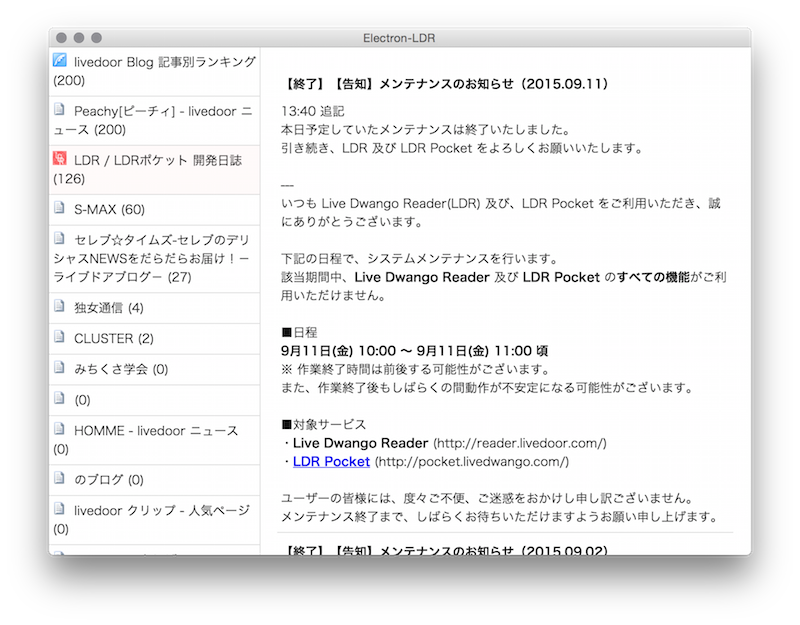
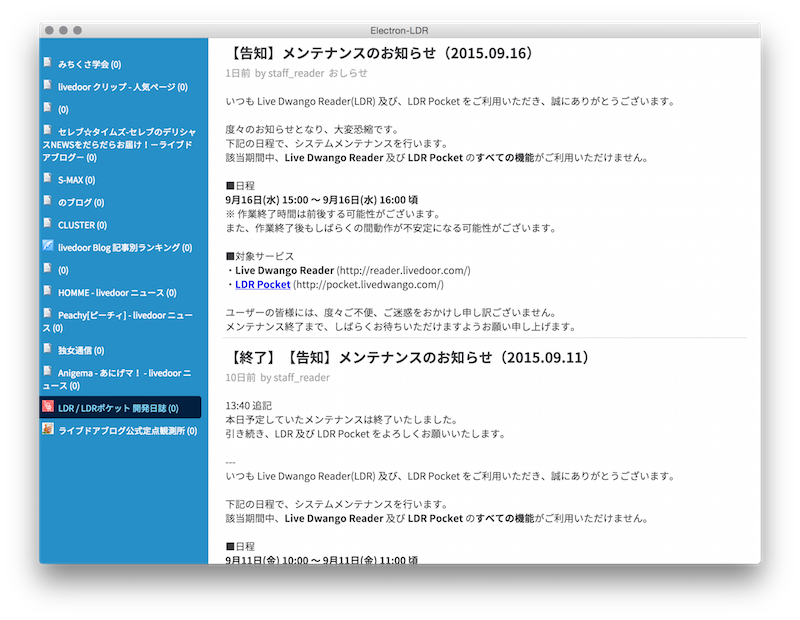
#2 フォントをNoto Sans Japaneseに変えた

diff --git a/app/style/style.css b/app/style/style.css
@@ -6,7 +6,7 @@ html,
 body {
 	width: 100%;
 	height: 100%;
-	font-family: "ヒラギノ角ゴ Pro W3", "Hiragino Kaku Gothic Pro", "メイリオ", Meiryo, Osaka, "ＭＳ Ｐゴシック", "MS PGothic", sans-serif;
+	font-family: "Noto Sans Japanese", sans-serif;
 	color: #111111;
 }
 #feeds {

diff --git a/app/html/index.html b/app/html/index.html
@@ -2,6 +2,7 @@
 <html>
 	<head>
 		<meta charset="UTF-8">
+		<link rel="stylesheet" href="https://fonts.googleapis.com/earlyaccess/notosansjapanese.css">
 		<link href="../style/style.css" rel="stylesheet">
 	</head>
 	<body>
